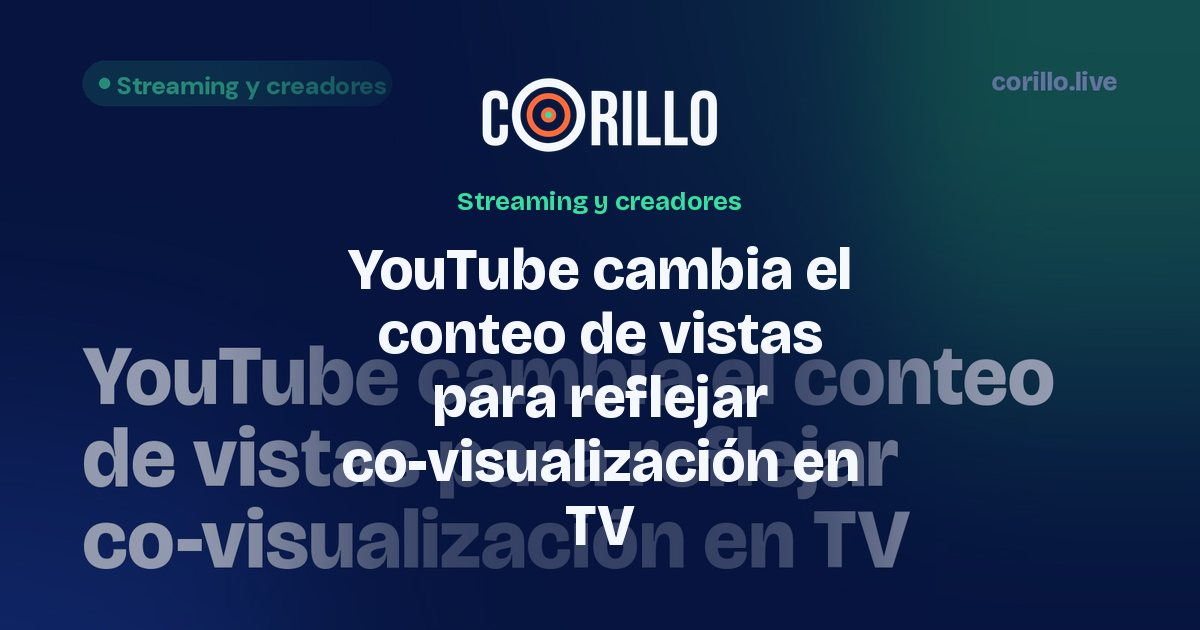
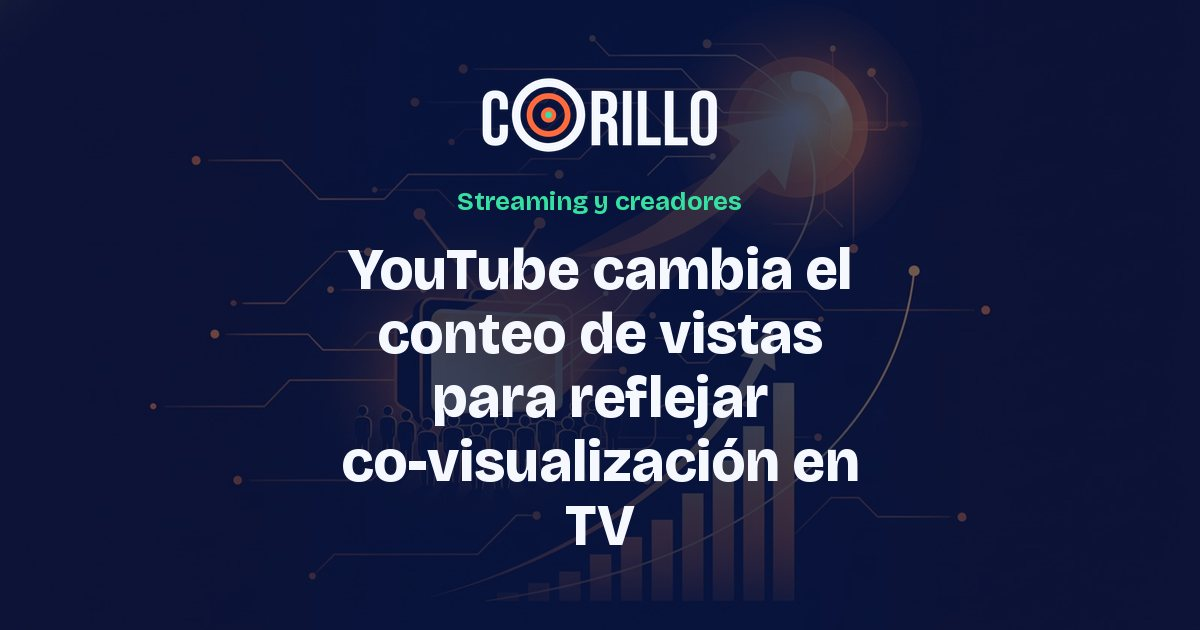
Portada IA: 3 intentos y razón del fallo en el log; ilustración de la nota de YouTube
El 17-nov un fallo pasajero de Gemini dejó la nota con la portada de diseño y el script no anotaba por qué.

Claude-Session: https://claude.ai/code/session_018Cr627TX5vz3mxJi4PtsEx

diff --git a/scripts/news_cover.py b/scripts/news_cover.py
@@ -92,15 +92,28 @@ def ia(meta):
               f"Bold, modern style: deep dark navy blue background with glowing warm orange and sunny yellow light accents. "
               f"Topic (illustrate the idea, never write it): {_sin_marcas(meta['titulo'])}. "
               f"Context: {_sin_marcas(meta['resumen'])}")
-    r = HTTP.post('https://generativelanguage.googleapis.com/v1beta/models/gemini-2.5-flash-image:generateContent',
-                  params={'key': key}, json={'contents': [{'parts': [{'text': prompt}]}],
-                                             'generationConfig': {'responseModalities': ['IMAGE'], 'imageConfig': {'aspectRatio': '16:9'}}},
-                  timeout=90)
-    if r.status_code != 200: return None
-    import base64
-    for p in r.json().get('candidates', [{}])[0].get('content', {}).get('parts', []):
-        if 'inlineData' in p:
-            return base64.b64decode(p['inlineData']['data']), 'Ilustración generada para Corillo'
+    # Hasta 3 intentos: el 17-nov-2026 un fallo pasajero de Gemini dejó la nota de YouTube con la portada de diseño,
+    # y como no se anotaba la razón, no se supo por qué. Ahora cada fallo queda en el log (stderr → daily.log).
+    import base64, time
+    for intento in range(1, 4):
+        try:
+            r = HTTP.post('https://generativelanguage.googleapis.com/v1beta/models/gemini-2.5-flash-image:generateContent',
+                          params={'key': key}, json={'contents': [{'parts': [{'text': prompt}]}],
+                                                     'generationConfig': {'responseModalities': ['IMAGE'], 'imageConfig': {'aspectRatio': '16:9'}}},
+                          timeout=90)
+            if r.status_code == 200:
+                c = (r.json().get('candidates') or [{}])[0]
+                for p in c.get('content', {}).get('parts', []):
+                    if 'inlineData' in p:
+                        return base64.b64decode(p['inlineData']['data']), 'Ilustración generada para Corillo'
+                razon = f"sin imagen (finishReason={c.get('finishReason')}, promptFeedback={r.json().get('promptFeedback')})"
+            else:
+                razon = f'HTTP {r.status_code}: {r.text[:200]}'
+        except (httpx.HTTPError, ValueError) as e:
+            razon = f'{type(e).__name__}: {e}'
+        print(f'  ilustración IA intento {intento} falló: {razon}', file=sys.stderr, flush=True)
+        if intento < 3:
+            time.sleep(20 * intento)
     return None
 
 

diff --git a/src/content/noticias/2026-11-17-youtube-cambia-el-conteo-de-vistas-para-reflejar-co-visualizacion-en.md b/src/content/noticias/2026-11-17-youtube-cambia-el-conteo-de-vistas-para-reflejar-co-visualizacion-en.md
@@ -19,7 +19,7 @@ sources:
   - name: "Dexerto"
     url: "https://www.dexerto.com/entertainment/youtube-now-shows-co-views-in-big-shake-up-to-view-counts-3428863/"
 image: "/noticias/portadas/2026-11-17-youtube-cambia-el-conteo-de-vistas-para-reflejar-co-visualizacion-en.jpg"
-imageCredit: "Portada de Corillo"
+imageCredit: "Ilustración generada para Corillo"
 ---
 
 YouTube está cambiando la forma en que muestra las vistas públicas de los videos. A partir de ahora, una sola reproducción en un televisor puede contar como varias vistas si la plataforma estima que varias personas están mirando juntas. Por ejemplo, si YouTube calcula que tres personas vieron un video en la sala, esa reproducción se contará como tres vistas. En teléfonos, tabletas y PC, una reproducción sigue contando como una vista.
